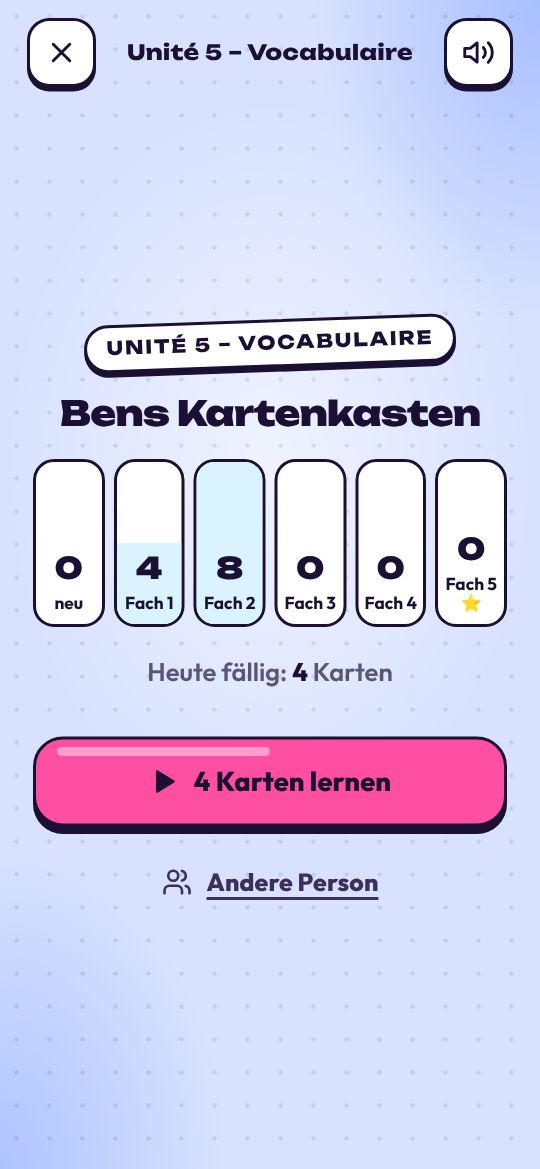
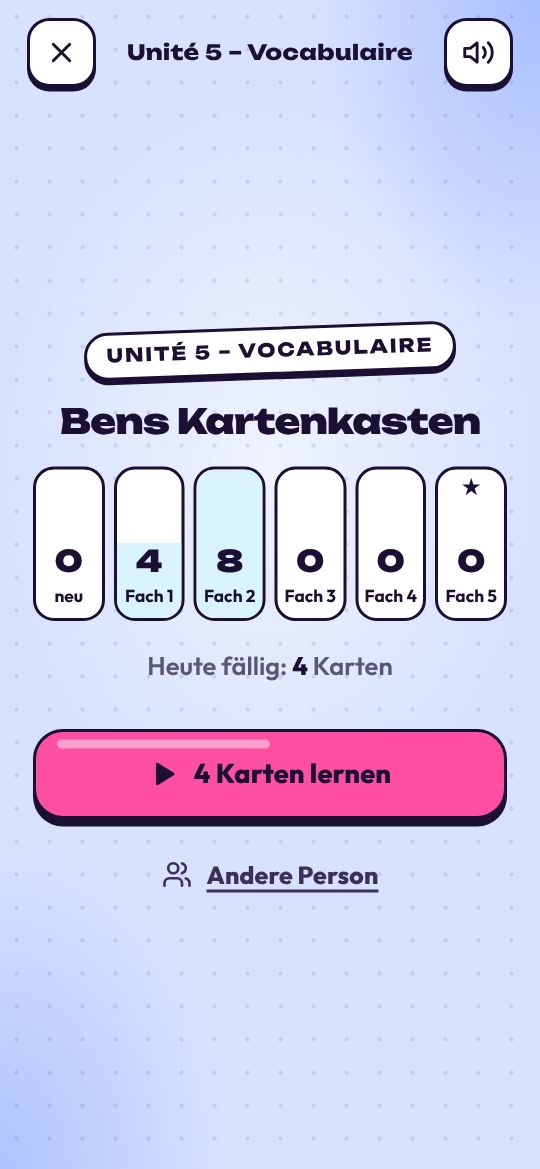
Kartenkasten: Fach 5 auf einer Linie; Updates auch bei hängender alter Version
- Kartenkasten: Die Zahlen aller Fächer stehen auf einer Linie, auch wenn eine
  Beschriftung auf kleinen Handys umbricht. Fach 5 zeigt den Stern oben im Fach
  statt in der Beschriftung.
- Updates: Hängt die alte Version an einer Anfrage, die nicht fertig wird,
  blieb sie trotz Neuladen stehen. Wartet die neue Version 8 Sekunden nach dem
  Neuladen immer noch, meldet die App die alte ab und lädt die neue direkt vom
  Server; die Offline-Kopie wird im Hintergrund neu eingerichtet. Nur online,
  auf sicheren Seiten, höchstens einmal pro Stunde. Ausserdem wird die
  Übernahme-Nachricht nach dem Neuladen nochmals gesendet.
- Browser-Test prüft die Fächer bei 280 und 412 px; README-Screenshot und
  ARCHITEKTUR.md nachgeführt.

Claude-Session: https://claude.ai/code/session_01J27dxZDKyJYiUyUtZZQLiE

diff --git a/client/src/lib/pwa.ts b/client/src/lib/pwa.ts
@@ -62,14 +62,30 @@ export function isSafeToReload(path = window.location.pathname): boolean {
 }
 
 const FORCED_RELOAD_KEY = 'phonegames-update-reload';
+const HARD_RELOAD_KEY = 'phonegames-update-hard-reload';
+/** After an update reload, how long the new version may still wait before the app lets go of the old one. */
+const STUCK_AFTER_MS = 8000;
+const HOUR_MS = 60 * 60 * 1000;
 
-function lastForcedReload(): number {
+function readStamp(storage: () => Storage, key: string): number {
   try {
-    return Number(sessionStorage.getItem(FORCED_RELOAD_KEY) ?? 0);
+    return Number(storage().getItem(key) ?? 0);
   } catch {
     return 0;
   }
 }
+
+function writeStamp(storage: () => Storage, key: string): void {
+  try {
+    storage().setItem(key, String(Date.now()));
+  } catch {
+    // Private mode: nothing to remember.
+  }
+}
+
+const lastForcedReload = () => readStamp(() => sessionStorage, FORCED_RELOAD_KEY);
+const lastHardReload = () => readStamp(() => localStorage, HARD_RELOAD_KEY);
+
 let applying = false;
 
 /** The main script of the code that is running (from index.html). */
@@ -114,15 +130,35 @@ export function applyUpdate(): void {
   void update();
   window.setTimeout(() => {
     const last = lastForcedReload();
-    try {
-      sessionStorage.setItem(FORCED_RELOAD_KEY, String(Date.now()));
-    } catch {
-      // Private mode: reload once anyway.
-    }
+    writeStamp(() => sessionStorage, FORCED_RELOAD_KEY);
     // Not when a game was started in the meantime – the hint stays and the update comes later.
     if (Date.now() - last > 60_000 && isSafeToReload()) window.location.reload();
     else applying = false;
   }, 4000);
+}
+
+/**
+ * Last resort right after an update reload: the old version is still busy – e.g. with a request
+ * on a bad mobile network that does not end – and keeps the new one waiting; reloading does not
+ * change that. The app then lets go of the old version and loads the new one straight from the
+ * server; the offline copy is set up again in the background. Only online, on a safe page and at
+ * most once an hour.
+ */
+async function finishStuckUpdate(reg: ServiceWorkerRegistration): Promise<void> {
+  if (!reg.waiting || Date.now() - lastForcedReload() > 30_000) return;
+  // In case the first «take over» message got lost.
+  reg.waiting.postMessage({ type: 'SKIP_WAITING' });
+  await new Promise((resolve) => window.setTimeout(resolve, STUCK_AFTER_MS));
+  if (!reg.waiting || !navigator.onLine || !isSafeToReload() || Date.now() - lastHardReload() < HOUR_MS) return;
+  try {
+    // The server must answer – sw.js never comes from the offline copy.
+    if (!(await fetch('/sw.js', { cache: 'no-store' })).ok) return;
+  } catch {
+    return;
+  }
+  writeStamp(() => localStorage, HARD_RELOAD_KEY);
+  await reg.unregister();
+  window.location.reload();
 }
 
 export function initPwa(): void {
@@ -158,11 +194,14 @@ export function initPwa(): void {
       // On the welcome and sign-in pages this would cover the hero for a first-time visitor —
       // the welcome text already says the games work offline.
       if (/^\/(willkommen|anmelden|registrieren|s\/)/.test(window.location.pathname)) return;
+      // After letting go of a stuck old version the offline copy is set up again – nothing new for the user.
+      if (Date.now() - lastHardReload() < 60_000) return;
       toast('Bereit für offline – Phonegames funktioniert jetzt auch ohne Internet ✈');
     },
     onRegisteredSW(_url, reg) {
       if (!reg) return;
       registration = reg;
+      void finishStuckUpdate(reg);
       // Back in the foreground, back online, and every 15 minutes while the app is visible.
       document.addEventListener('visibilitychange', () => {
         if (document.visibilityState === 'visible') void checkForUpdate();

diff --git a/client/src/games/spickzettel/spickzettel.css b/client/src/games/spickzettel/spickzettel.css
@@ -288,13 +288,17 @@
 .box-row {
   display: grid;
   grid-template-columns: repeat(6, minmax(0, 1fr));
-  gap: 6px;
+  /* Two shared rows: the numbers stay on one line even when a label wraps on a small phone. */
+  grid-template-rows: minmax(78px, auto) auto;
+  gap: 0 6px;
   width: min(100%, 520px);
 }
 
 .box-col {
   position: relative;
   display: grid;
+  grid-row: span 2;
+  grid-template-rows: subgrid;
   justify-items: center;
   align-content: end;
   gap: 2px;
@@ -328,13 +332,26 @@
   position: relative;
 }
 
+/* Fach 5: everything learnt – a dark star, readable on the yellow fill too. */
+.box-col__star {
+  position: absolute;
+  top: 5px;
+  left: 50%;
+  transform: translateX(-50%);
+  font-size: 14px;
+  line-height: 1;
+  color: var(--ink);
+}
+
 .box-col strong {
+  align-self: end;
   font-family: var(--font-display);
   font-size: 20px;
   font-weight: 900;
 }
 
 .box-col small {
+  align-self: start;
   font-size: 11.5px;
   font-weight: 700;
   line-height: 1.15;

diff --git a/e2e/spickzettel.spec.ts b/e2e/spickzettel.spec.ts
@@ -23,6 +23,12 @@ test('Kartenkasten: selbst prüfen, Fächer und Erinnerung auf der Startseite', 
   await createGroup(page, ['Nora']);
   await startGame(page);
   await expect(page.locator('.box-row')).toBeVisible();
+  // The numbers of all boxes stand on one line – also on a small phone, where the labels wrap.
+  for (const width of [280, 412]) {
+    await page.setViewportSize({ width, height: 839 });
+    const tops = await page.locator('.box-col strong').evaluateAll((els) => els.map((e) => Math.round(e.getBoundingClientRect().top)));
+    expect(new Set(tops).size, `${width} px`).toBe(1);
+  }
   // «7 × 8» is missed twice (asked again at the end of the round).
   expect(await learnRound(page, ['7 × 8'])).toBe('3 von 5 gewusst');
   await expect(page.getByText('Heute fällig: 1 Karte')).toBeVisible();

diff --git a/client/src/games/spickzettel/Kartenkasten.tsx b/client/src/games/spickzettel/Kartenkasten.tsx
@@ -39,8 +39,13 @@ export function BoxRow({ counts, highlight }: { counts: number[]; highlight?: nu
           style={{ '--fill': `${Math.round((count / max) * 100)}%` } as CSSProperties}
         >
           <span className="box-col__bar" aria-hidden="true" />
+          {box === BOXES && (
+            <span className="box-col__star" aria-hidden="true">
+              ★
+            </span>
+          )}
           <strong>{count}</strong>
-          <small>{box === 0 ? 'neu' : box === BOXES ? 'Fach 5 ⭐' : `Fach ${box}`}</small>
+          <small>{box === 0 ? 'neu' : `Fach ${box}`}</small>
         </div>
       ))}
     </div>

diff --git a/docs/ARCHITEKTUR.md b/docs/ARCHITEKTUR.md
@@ -74,6 +74,11 @@ bearbeiten, Spiele zur Liste hinzufügen oder entfernen.
 - Gelegentlich blockiert der Browser den Wechsel, weil die alte Version noch eine Anfrage bearbeitet. Dann lädt die
   App nach 4 Sekunden trotzdem neu (höchstens einmal pro Minute, nur auf sicheren Seiten). Übernimmt die neue
   Version erst danach, merkt die App das am `index.html` des Service Workers (anderes Hauptskript) und lädt nochmals.
+- Hängt die alte Version an einer Anfrage, die nicht fertig wird (z. B. schlechtes Mobilnetz), hilft auch das
+  Neuladen nicht. Wartet die neue Version 8 Sekunden nach dem Neuladen immer noch, meldet die App die alte ab und
+  lädt die neue direkt vom Server; die Offline-Kopie wird im Hintergrund neu eingerichtet. Nur online, auf sicheren
+  Seiten und höchstens einmal pro Stunde. Nachgestellt mit einem Service Worker, der eine Anfrage nie beantwortet:
+  vorher blieb die alte Version stehen, jetzt läuft nach rund 12 Sekunden die neue.
 - Unter Konto gibt es «Nach Updates suchen».
 
 ### Synchronisation
